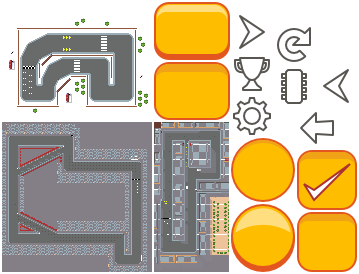
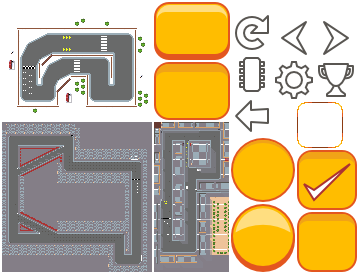
Nicer selection

Changed region(s): [[0.6435, 0.0584, 1.0, 0.4964], [0.8273, 0.4088, 0.9499, 0.5547], [0.9499, 0.4964, 0.9805, 0.5255]]

diff --git a/core/src/com/greenyetilab/tinywheels/Assets.java b/core/src/com/greenyetilab/tinywheels/Assets.java
@@ -2,9 +2,11 @@ package com.greenyetilab.tinywheels;
 
 import com.badlogic.gdx.Gdx;
 import com.badlogic.gdx.graphics.g2d.Animation;
+import com.badlogic.gdx.graphics.g2d.Batch;
 import com.badlogic.gdx.graphics.g2d.NinePatch;
 import com.badlogic.gdx.graphics.g2d.TextureAtlas;
 import com.badlogic.gdx.graphics.g2d.TextureRegion;
+import com.badlogic.gdx.math.MathUtils;
 import com.badlogic.gdx.scenes.scene2d.ui.Skin;
 import com.badlogic.gdx.utils.Array;
 
@@ -39,6 +41,7 @@ public class Assets {
     public final Animation gunAnimation;
     public final TextureRegion bullet;
     public final TextureRegion skidmark;
+    public final NinePatch selection;
 
     private final HashMap<String, TextureAtlas.AtlasRegion> mRegions = new HashMap<String, TextureAtlas.AtlasRegion>();
 
@@ -79,6 +82,8 @@ public class Assets {
         removeBorders(this.hudBackground);
 
         this.skidmark = findRegion("skidmark");
+
+        this.selection = uiAtlas.createPatch("selection");
 
         loadVehicleDefinitions();
     }
@@ -164,5 +169,15 @@ public class Assets {
         for (String id : VEHICLE_IDS) {
             this.vehicleDefs.add(VehicleIO.get(id));
         }
+    }
+
+    public void renderGridSelectorItem(Batch batch, float x, float y, float width, float height, TextureRegion region, boolean selected) {
+        float regionW = region.getRegionWidth();
+        float regionH = region.getRegionHeight();
+        if (selected) {
+            final float pad = 8;
+            this.selection.draw(batch, x + MathUtils.round((width - regionW) / 2) - pad, y + MathUtils.round((height - regionH) / 2) - pad, regionW + 2 * pad, regionH + 2 * pad);
+        }
+        batch.draw(region, x + (width - regionW) / 2, y + (height - regionH) / 2);
     }
 }

diff --git a/core/src/com/greenyetilab/tinywheels/MapSelector.java b/core/src/com/greenyetilab/tinywheels/MapSelector.java
@@ -1,14 +1,8 @@
 package com.greenyetilab.tinywheels;
 
-import com.badlogic.gdx.graphics.Color;
 import com.badlogic.gdx.graphics.g2d.Batch;
 import com.badlogic.gdx.graphics.g2d.TextureRegion;
 import com.badlogic.gdx.scenes.scene2d.Actor;
-import com.badlogic.gdx.scenes.scene2d.ui.Button;
-import com.badlogic.gdx.scenes.scene2d.ui.ButtonGroup;
-import com.badlogic.gdx.scenes.scene2d.ui.TextButton;
-import com.badlogic.gdx.scenes.scene2d.ui.VerticalGroup;
-import com.badlogic.gdx.utils.Array;
 import com.badlogic.gdx.utils.XmlReader;
 import com.greenyetilab.utils.GridSelector;
 import com.greenyetilab.utils.UiBuilder;
@@ -23,18 +17,7 @@ public class MapSelector extends GridSelector<MapInfo> {
         @Override
         public void render(Batch batch, float x, float y, float width, float height, MapInfo mapInfo, boolean selected) {
             TextureRegion region = mAssets.uiAtlas.findRegion("map-screenshots/" + mapInfo.getId());
-            float oldAlpha = batch.getColor().a;
-            if (selected) {
-                Color color = batch.getColor();
-                color.a /= 2;
-                batch.setColor(color);
-            }
-            batch.draw(region, x + (width - region.getRegionWidth()) / 2, y + (height - region.getRegionHeight()) / 2);
-            if (selected) {
-                Color color = batch.getColor();
-                color.a = oldAlpha;
-                batch.setColor(color);
-            }
+            mAssets.renderGridSelectorItem(batch, x, y, width, height, region, selected);
         }
     }
 

diff --git a/core/src/com/greenyetilab/tinywheels/VehicleSelector.java b/core/src/com/greenyetilab/tinywheels/VehicleSelector.java
@@ -1,6 +1,5 @@
 package com.greenyetilab.tinywheels;
 
-import com.badlogic.gdx.graphics.Color;
 import com.badlogic.gdx.graphics.g2d.Batch;
 import com.badlogic.gdx.graphics.g2d.TextureRegion;
 import com.badlogic.gdx.scenes.scene2d.Actor;
@@ -18,18 +17,7 @@ public class VehicleSelector extends GridSelector<VehicleDef> {
         @Override
         public void render(Batch batch, float x, float y, float width, float height, VehicleDef vehicleDef, boolean selected) {
             TextureRegion region = mAssets.findRegion("vehicles/" + vehicleDef.mainImage);
-            float oldAlpha = batch.getColor().a;
-            if (selected) {
-                Color color = batch.getColor();
-                color.a /= 2;
-                batch.setColor(color);
-            }
-            batch.draw(region, x + (width - region.getRegionWidth()) / 2, y + (height - region.getRegionHeight()) / 2);
-            if (selected) {
-                Color color = batch.getColor();
-                color.a = oldAlpha;
-                batch.setColor(color);
-            }
+            mAssets.renderGridSelectorItem(batch, x, y, width, height, region, selected);
         }
     }
 
